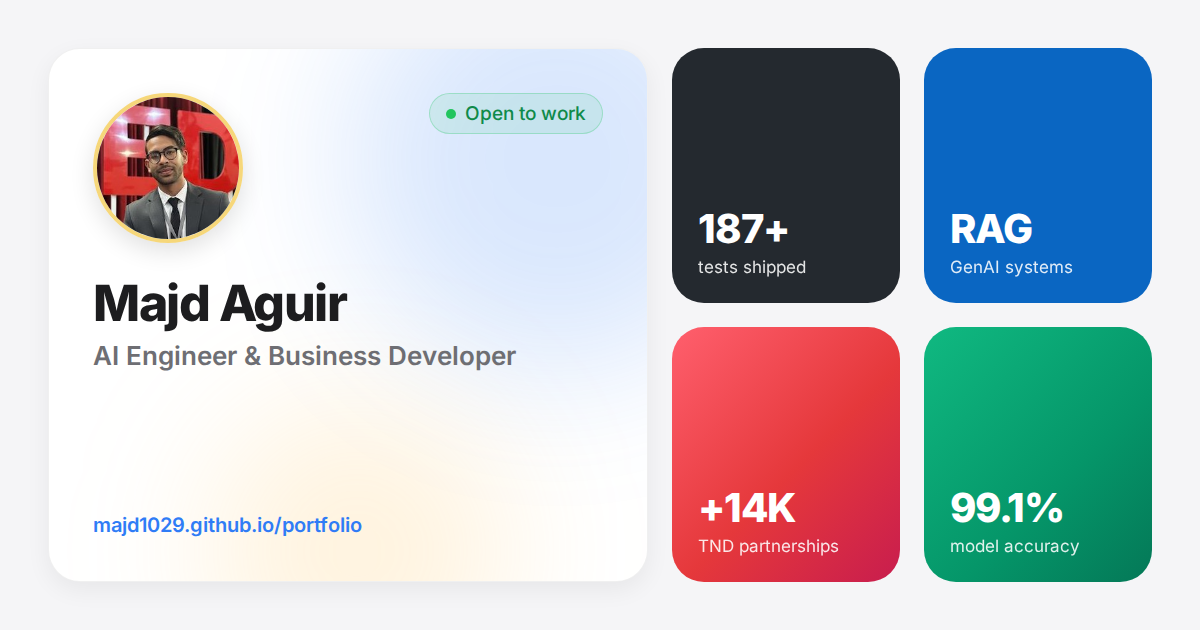
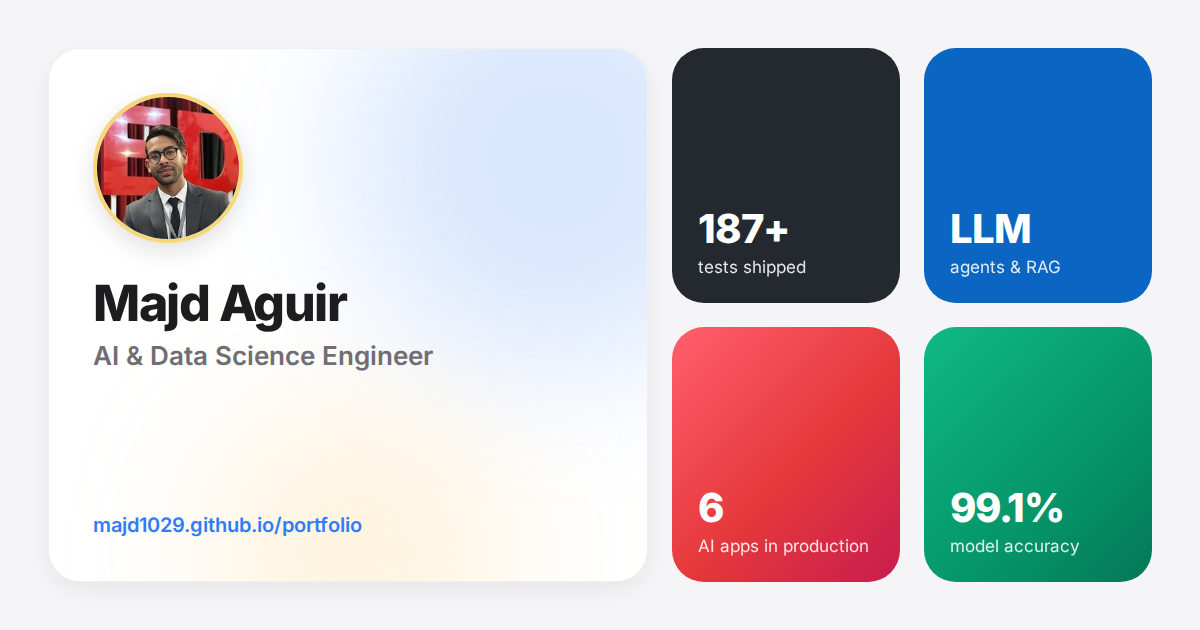
Update portfolio from CV
Focus on AI and data.

diff --git a/index.html b/index.html
@@ -3,16 +3,16 @@
 <head>
   <meta charset="utf-8">
   <meta name="viewport" content="width=device-width, initial-scale=1">
-  <title>Majd Aguir — AI Engineer & Business Developer</title>
-  <meta name="description" content="Majd Aguir, AI Engineer &amp; Business Developer in Sousse, Tunisia. Production GenAI and RAG systems, plus partnerships, sales and data operations.">
+  <title>Majd Aguir — AI & Data Science Engineer</title>
+  <meta name="description" content="Majd Aguir, AI &amp; Data Science Engineer. Autonomous LLM agents, production GenAI and RAG systems, OCR pipelines and data engineering.">
   <meta property="og:type" content="website">
-  <meta property="og:title" content="Majd Aguir — AI Engineer &amp; Business Developer">
-  <meta property="og:description" content="Production GenAI and RAG systems, plus the partnerships, teams and data operations that turn them into measurable impact.">
+  <meta property="og:title" content="Majd Aguir — AI &amp; Data Science Engineer">
+  <meta property="og:description" content="Autonomous LLM agents, production GenAI and RAG systems, and well-tested AI applications.">
   <meta property="og:url" content="https://majd1029.github.io/portfolio/">
   <meta property="og:image" content="https://majd1029.github.io/portfolio/og-image.png">
   <meta property="og:image:width" content="1200">
   <meta property="og:image:height" content="630">
-  <meta property="og:image:alt" content="Majd Aguir, AI Engineer &amp; Business Developer">
+  <meta property="og:image:alt" content="Majd Aguir, AI &amp; Data Science Engineer">
   <meta name="twitter:card" content="summary_large_image">
   <meta name="twitter:image" content="https://majd1029.github.io/portfolio/og-image.png">
   <link rel="canonical" href="https://majd1029.github.io/portfolio/">
@@ -151,15 +151,6 @@
       border: 3px solid #f6d77a; box-shadow: 0 8px 24px rgba(0, 0, 0, 0.12);
       background: var(--card-2);
     }
-    .pill {
-      display: inline-flex; align-items: center; gap: 8px;
-      padding: 6px 13px; border-radius: 999px;
-      font-size: 14px; font-weight: 500; white-space: nowrap;
-      color: #0f8a4a; background: rgba(34, 197, 94, 0.1); border: 1px solid rgba(34, 197, 94, 0.28);
-    }
-    [data-theme="dark"] .pill { color: #4ade80; }
-    .pill i { width: 8px; height: 8px; border-radius: 50%; background: #22c55e; box-shadow: 0 0 0 0 rgba(34, 197, 94, .5); animation: ping 2s infinite; }
-    @keyframes ping { 0% { box-shadow: 0 0 0 0 rgba(34, 197, 94, .45); } 80%, 100% { box-shadow: 0 0 0 8px rgba(34, 197, 94, 0); } }
     h1 { font-size: clamp(28px, 3.4vw, 34px); font-weight: 800; letter-spacing: -0.025em; line-height: 1.15; }
     .role { font-size: 19px; font-weight: 600; color: var(--muted); margin: 4px 0 18px; }
     .lede { color: var(--muted); font-size: 16px; max-width: 470px; margin-bottom: 26px; }
@@ -210,7 +201,7 @@
     .about h3 em { font-style: normal; color: var(--accent); }
     .about p { color: var(--muted); font-size: 15.5px; }
     .about p + p { margin-top: 12px; }
-    .skills { display: grid; grid-template-columns: repeat(4, 1fr); gap: 24px; margin-top: 24px; }
+    .skills { display: grid; grid-template-columns: repeat(3, 1fr); gap: 24px; margin-top: 24px; }
     .skill { padding: 24px; }
     .skill h4, .mini h4 { font-size: 13px; font-weight: 600; text-transform: uppercase; letter-spacing: 0.06em; color: var(--muted); margin-bottom: 14px; display: flex; align-items: center; gap: 9px; }
     .dot { width: 26px; height: 26px; border-radius: 8px; display: grid; place-items: center; color: #fff; }
@@ -317,13 +308,12 @@
     @media (prefers-reduced-motion: reduce) {
       html { scroll-behavior: auto; }
       .reveal { opacity: 1; transform: none; transition: none; }
-      .pill i { animation: none; }
     }
 
     /* ---------- Responsive ---------- */
     @media (max-width: 1024px) {
       .hero { grid-template-columns: 1fr; }
-      .skills, .edu { grid-template-columns: 1fr 1fr; }
+      .edu { grid-template-columns: 1fr 1fr; }
       .project, .project.wide { grid-column: span 3; }
       .project:last-child { grid-column: 1 / -1; }
       .flagship { grid-template-columns: 1fr; }
@@ -386,11 +376,10 @@
         <svg class="code-mark" width="150" height="100" viewBox="0 0 150 100" fill="none" stroke="currentColor" stroke-width="14" stroke-linecap="round" stroke-linejoin="round" aria-hidden="true"><path d="M50 10 12 50l38 40M100 10l38 40-38 40"/></svg>
         <div class="intro-top">
           <img class="avatar" src="avatar.jpg" alt="Majd Aguir" width="128" height="128">
-          <span class="pill"><i></i>Open to work</span>
         </div>
         <h1>Hi, I'm Majd Aguir.</h1>
-        <div class="role">AI Engineer &amp; Business Developer.</div>
-        <p class="lede">Recent AI &amp; Data Science engineering graduate building production-grade <strong>GenAI and RAG systems</strong>, and the partnerships, teams and data operations that turn them into measurable impact.</p>
+        <div class="role">AI &amp; Data Science Engineer.</div>
+        <p class="lede">AI Systems Engineer at <strong>SUN &amp; SUN International</strong>, building autonomous LLM agent platforms with secure tooling and scheduled execution. I design production-grade <strong>GenAI and RAG systems</strong>, OCR pipelines and well-tested AI applications.</p>
         <div class="actions">
           <a href="#contact" class="btn btn-dark">Let's Talk</a>
           <button type="button" class="btn btn-light" data-copy="majdaguir29@gmail.com">Copy Email</button>
@@ -427,41 +416,37 @@
 
     <div class="stats">
       <div class="card stat reveal"><b>187<span>+</span></b><small>Automated tests shipped</small></div>
-      <div class="card stat reveal"><b>+14K<span> TND</span></b><small>Partnerships secured</small></div>
-      <div class="card stat reveal"><b>80<span>%</span></b><small>Efficiency gain from dashboards</small></div>
+      <div class="card stat reveal"><b>6</b><small>Production AI apps deployed</small></div>
+      <div class="card stat reveal"><b>99.1<span>%</span></b><small>Image classifier accuracy</small></div>
       <div class="card stat reveal"><b>1.7K<span>+</span></b><small>Records analyzed</small></div>
     </div>
 
     <!-- ===== About ===== -->
     <section id="about">
-      <div class="sec-head"><div><h2>About Me</h2><p>Applied AI meets business growth</p></div></div>
+      <div class="sec-head"><div><h2>About Me</h2><p>Building AI that works in production</p></div></div>
       <div class="about">
         <div class="card reveal">
-          <h3>I sit at the intersection of <em>applied AI</em> and <em>business growth</em>.</h3>
+          <h3>I build <em>production-grade AI</em> that solves real problems.</h3>
           <p>I'm an AI &amp; Data Science engineer with a strong foundation in Python, data analytics and machine learning, passionate about using data-driven solutions to solve real-world problems. My hands-on work spans RAG pipelines, document intelligence and full-stack AI applications.</p>
         </div>
         <div class="card reveal">
-          <h3>Technical depth, people-first execution.</h3>
-          <p>Alongside the technical side, I've led sales, partnerships and data operations through AIESEC and TEDx: coordinating cross-functional teams, closing high-value deals, and building the dashboards that keep programs accountable.</p>
-          <p>I bring both analytical precision and strategic, people-first execution.</p>
+          <h3>From prototype to production.</h3>
+          <p>At SUN &amp; SUN International I build autonomous LLM agent platforms: agent tooling, OAuth security with least-privilege access, and scheduled execution, deployed with Docker and Cloudflare. Before that I shipped a hybrid-RAG support assistant at Consultim-IT and multilingual OCR pipelines at Class Quiz.</p>
+          <p>I care about safe, reliable AI: evaluation pipelines, secure tooling and thorough automated testing.</p>
         </div>
       </div>
       <div class="skills">
         <div class="card skill reveal">
           <h4><span class="dot" style="background:#2f7cf6">✦</span>AI &amp; GenAI</h4>
-          <div class="chips"><span class="chip">RAG</span><span class="chip">LLMs</span><span class="chip">NLP</span><span class="chip">Prompt Engineering</span><span class="chip">Vector Databases</span><span class="chip">OCR</span><span class="chip">Multimodal AI</span></div>
+          <div class="chips"><span class="chip">RAG</span><span class="chip">LLMs</span><span class="chip">AI Agents</span><span class="chip">MCP</span><span class="chip">NLP</span><span class="chip">Prompt Engineering</span><span class="chip">Vector Databases</span><span class="chip">OCR</span><span class="chip">Multimodal AI</span><span class="chip">Computer Vision</span><span class="chip">Deep Learning</span><span class="chip">PyTorch</span><span class="chip">TensorFlow</span><span class="chip">Hugging Face</span><span class="chip">scikit-learn</span></div>
         </div>
         <div class="card skill reveal">
           <h4><span class="dot" style="background:#111827">&lt;/&gt;</span>Engineering</h4>
-          <div class="chips"><span class="chip">Python</span><span class="chip">FastAPI</span><span class="chip">React</span><span class="chip">TypeScript</span><span class="chip">PostgreSQL</span><span class="chip">Redis</span><span class="chip">Qdrant</span><span class="chip">Docker</span><span class="chip">AWS</span></div>
+          <div class="chips"><span class="chip">Python</span><span class="chip">TypeScript</span><span class="chip">JavaScript</span><span class="chip">FastAPI</span><span class="chip">React</span><span class="chip">Next.js</span><span class="chip">NestJS</span><span class="chip">PostgreSQL</span><span class="chip">MongoDB</span><span class="chip">MySQL</span><span class="chip">Redis</span><span class="chip">Qdrant</span><span class="chip">Temporal</span><span class="chip">OAuth 2.0</span><span class="chip">Docker</span><span class="chip">Cloudflare</span><span class="chip">CI/CD</span><span class="chip">AWS</span><span class="chip">Azure</span></div>
         </div>
         <div class="card skill reveal">
           <h4><span class="dot" style="background:#10b981">▲</span>Data &amp; Analytics</h4>
-          <div class="chips"><span class="chip">SQL</span><span class="chip">Looker Studio</span><span class="chip">Dashboarding</span><span class="chip">Data Quality</span><span class="chip">Reporting</span></div>
-        </div>
-        <div class="card skill reveal">
-          <h4><span class="dot" style="background:#f59e0b">★</span>Business</h4>
-          <div class="chips"><span class="chip">Business Development</span><span class="chip">B2B Sales</span><span class="chip">Partnerships</span><span class="chip">Negotiation</span><span class="chip">Program Coordination</span><span class="chip">Team Leadership</span><span class="chip">Stakeholder Management</span></div>
+          <div class="chips"><span class="chip">SQL</span><span class="chip">Pandas</span><span class="chip">NumPy</span><span class="chip">Apache Spark</span><span class="chip">Power BI</span><span class="chip">Looker Studio</span><span class="chip">Matplotlib</span><span class="chip">Dashboarding</span><span class="chip">Data Quality</span><span class="chip">Reporting</span></div>
         </div>
       </div>
     </section>
@@ -559,17 +544,43 @@
 
     <!-- ===== Experience ===== -->
     <section id="experience">
-      <div class="sec-head"><div><h2>Experience</h2><p>AI engineering, partnerships and data operations</p></div></div>
+      <div class="sec-head"><div><h2>Experience</h2><p>AI engineering and data</p></div></div>
       <div class="card timeline reveal">
+        <div class="job">
+          <div class="when">Aug 2026 — Present</div>
+          <div>
+            <h3>AI Systems Engineer &amp; Agent Automation<span class="tag">Current</span></h3>
+            <div class="org">SUN &amp; SUN International · Ankara, Turkey</div>
+            <ul>
+              <li>Engineered an autonomous LLM agent platform for self-hosted publishing systems, focused on agent tooling, OAuth security and scheduled execution.</li>
+              <li>Integrated ChatGPT through purpose-built tools for automated media ingestion, account management and scheduled publishing on production platforms.</li>
+              <li>Diagnosed and resolved critical OAuth discovery vulnerabilities so connector registrations for external API integrations work reliably.</li>
+              <li>Architected a least-privilege authorization model with secure token exchange and scoped grants, replacing legacy shared API keys.</li>
+              <li>Built and run the deployment infrastructure for six production AI applications with Docker and Cloudflare.</li>
+            </ul>
+          </div>
+        </div>
         <div class="job">
           <div class="when">Feb — Jun 2026</div>
           <div>
-            <h3>Artificial Intelligence Engineer</h3>
+            <h3>AI Engineer</h3>
             <div class="org">Consultim-IT · Sousse, Tunisia</div>
             <ul>
               <li>Built a production support assistant with hybrid RAG (dense + sparse), Qdrant + RRF fusion, and cross-encoder reranking.</li>
               <li>Engineered a multi-format ingestion pipeline (PDF, DOCX, PPTX, XLSX, OCR images) and a multi-tier memory layer.</li>
               <li>Shipped a React + TypeScript chat UI with JWT/OAuth, SSE streaming, and a 187-test suite.</li>
+            </ul>
+          </div>
+        </div>
+        <div class="job">
+          <div class="when">Feb — Jul 2026</div>
+          <div>
+            <h3>Dashboard Master</h3>
+            <div class="org">AIESEC in Portugal · Remote</div>
+            <ul>
+              <li>Monitored, maintained and improved data workflows across multiple projects for reliable, consistent processing.</li>
+              <li>Focused on data accuracy, validation and structured reporting to deliver decision-ready datasets.</li>
+              <li>Used dashboards and analytics to track key metrics and translate requirements into scalable data solutions.</li>
             </ul>
           </div>
         </div>
@@ -586,30 +597,6 @@
           </div>
         </div>
         <div class="job">
-          <div class="when">Mar — May 2025</div>
-          <div>
-            <h3>Head of Partnerships</h3>
-            <div class="org">TEDxHadrumet · Sousse, Tunisia</div>
-            <ul>
-              <li>Secured +14K TND across 15 partner deals, ensuring the event's financial sustainability.</li>
-              <li>Negotiated high-value sponsorships and led a 4-member external-relations team.</li>
-              <li>Reached 400+ participants with a 95% satisfaction rate.</li>
-            </ul>
-          </div>
-        </div>
-        <div class="job">
-          <div class="when">Feb 2025 — Feb 2026</div>
-          <div>
-            <h3>Team Leader · Sales &amp; Data Manager</h3>
-            <div class="org">AIESEC in Tunisia · Incoming Global Internships</div>
-            <ul>
-              <li>Led the department to a 1st-place national ranking among 12 local committees.</li>
-              <li>Built 3 Sales / IR / Exchange dashboards (Sheets + Looker Studio), lifting operational efficiency 80%.</li>
-              <li>Coached a team of 6 and coordinated 28 interns from 10 countries to 100% satisfaction.</li>
-            </ul>
-          </div>
-        </div>
-        <div class="job">
           <div class="when">Aug 2024 — Jan 2025</div>
           <div>
             <h3>Data Analyst</h3>
@@ -618,18 +605,6 @@
               <li>Analyzed 1,700+ approvals and 1,028 completed experiences to surface market and participant insights.</li>
               <li>Built dashboards and reports that improved data accuracy and decision-making for stakeholders.</li>
               <li>Resolved data inconsistencies, raising overall data quality and reliability.</li>
-            </ul>
-          </div>
-        </div>
-        <div class="job">
-          <div class="when">Oct 2023 — Jan 2025</div>
-          <div>
-            <h3>Sales Manager</h3>
-            <div class="org">AIESEC in Tunisia · Incoming Global Talent</div>
-            <ul>
-              <li>Contributed to 17 signed openings and delivered 6 exchange experiences for international participants.</li>
-              <li>Achieved a 35% conversion rate from signed opportunities to realized exchanges.</li>
-              <li>Matched intern skills to employer needs with a targeted profiling approach.</li>
             </ul>
           </div>
         </div>
@@ -643,19 +618,19 @@
         <div class="card mini reveal">
           <div class="yr">2023 — 2026</div>
           <h3>Engineer's Degree — AI &amp; Data Science</h3>
-          <p>EPI · International Multidisciplinary School</p>
+          <p>EPI Digital School</p>
         </div>
         <div class="card mini reveal">
           <div class="yr">2021 — 2023</div>
           <h3>Preparatory Cycle — ICT</h3>
-          <p>EPI · International Multidisciplinary School</p>
+          <p>EPI Digital School</p>
         </div>
         <div class="card mini reveal">
           <h4>Languages</h4>
           <div class="langs">
             <div>Arabic <span>Native</span></div>
-            <div>English <span>C1 · Professional</span></div>
-            <div>French <span>B2 · Working</span></div>
+            <div>English <span>C1 · Fluent</span></div>
+            <div>French <span>C1 · Fluent</span></div>
           </div>
         </div>
         <div class="card mini reveal">
@@ -669,7 +644,7 @@
     <div class="cta reveal" id="contact">
       <div>
         <h2>Let's Build Something Worth Shipping</h2>
-        <p>I'm open to AI engineering, data and business-development opportunities. Reach out and I'll get back to you quickly.</p>
+        <p>Want to talk about AI agents, RAG systems or data engineering? Reach out and I'll get back to you quickly.</p>
         <div class="contact-meta">
           <a href="mailto:majdaguir29@gmail.com">majdaguir29@gmail.com</a>
           <a href="tel:+21697179960">+216 97 179 960</a>
@@ -683,7 +658,7 @@
 
     <footer>
       <span>© 2026 Majd Aguir. All rights reserved.</span>
-      <span>AI Engineer &amp; Business Developer · Sousse, Tunisia</span>
+      <span>AI &amp; Data Science Engineer · Sousse, Tunisia</span>
     </footer>
   </main>
 

diff --git a/README.md b/README.md
@@ -1,6 +1,6 @@
 # Majd Aguir — Portfolio
 
-Personal portfolio of Majd Aguir, AI Engineer & Business Developer (Sousse, Tunisia).
+Personal portfolio of Majd Aguir, AI & Data Science Engineer (Sousse, Tunisia).
 
 ## Structure
 
